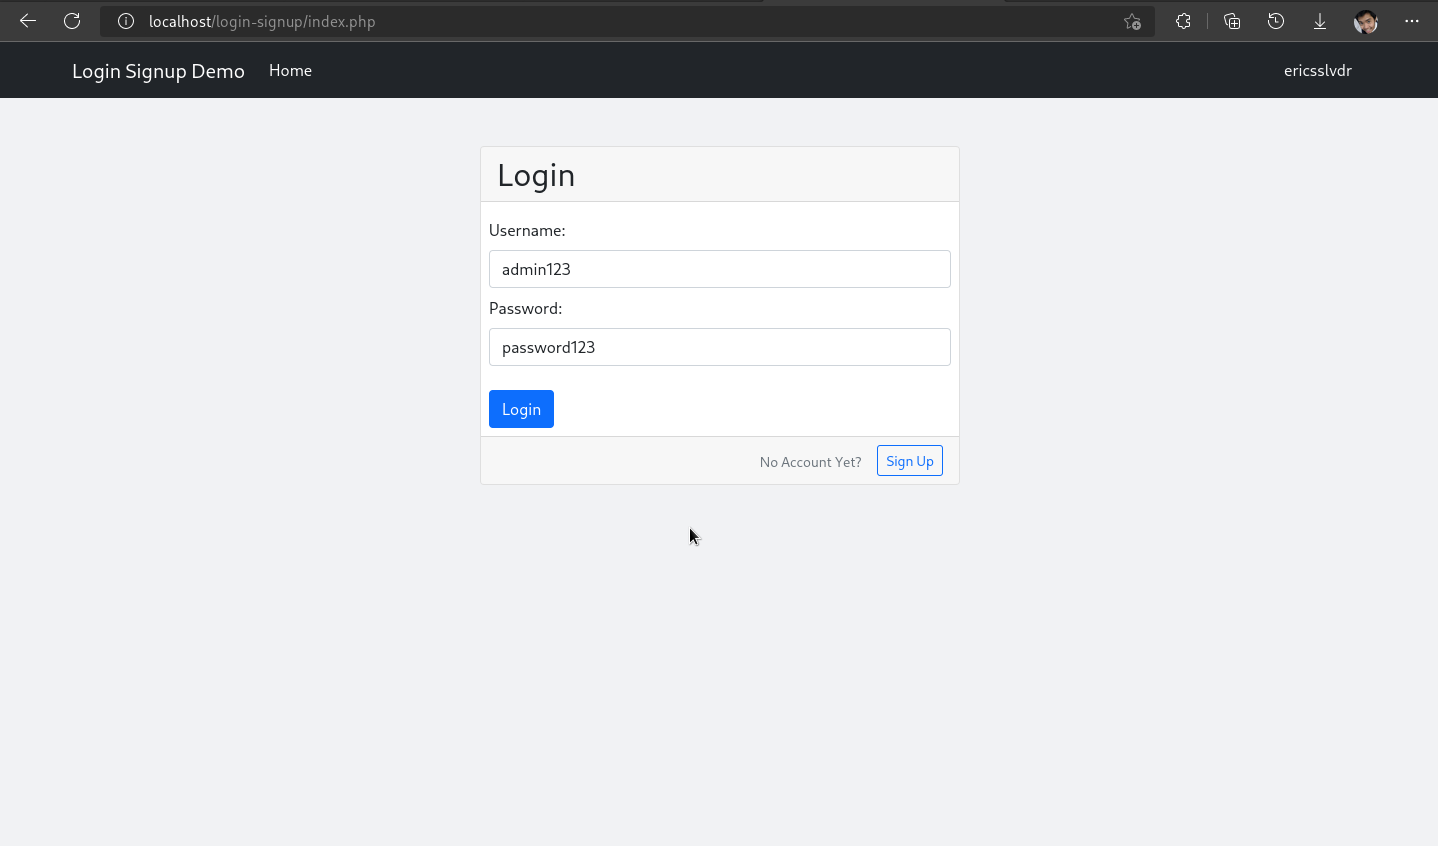
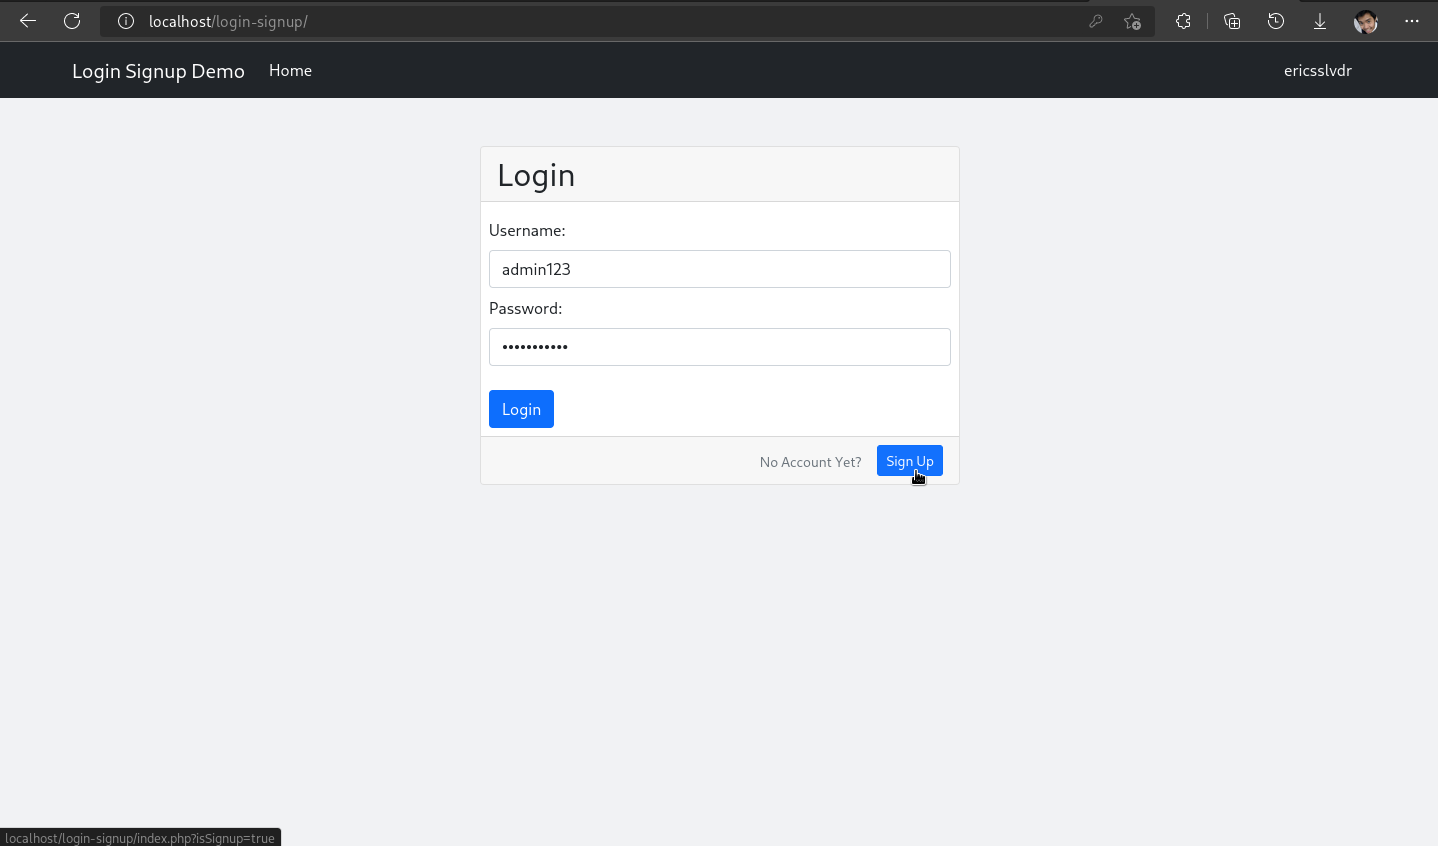
changed input type text to password

diff --git a/sign-up.php b/sign-up.php
@@ -6,15 +6,15 @@
         <div class="card-body p-2">
             <form action="" method="POST">
                 <label class="form-label mt-2">Username:</label>
-                <input type="text" name="username" id="username" class="form-control" placeholder="Enter Username Here" required>
+                <input type="text" name="username" class="form-control" placeholder="Enter Username Here" required>
                 <label class="form-label mt-2">Password:</label>
-                <input type="text" name="password" id="password" class="form-control" placeholder="Enter Password Here" required>
+                <input type="password" name="password" class="form-control" placeholder="Enter Password Here" required>
                 <!-- <label class="form-label mt-2">Repeat Password:</label>
-                <input type="text" name="password" id="password" class="form-control" placeholder="Enter Password Here"> -->
+                <input type="password" name="password" class="form-control" placeholder="Enter Password Here"> -->
                 <label class="form-label mt-2">E-mail:</label>
-                <input type="text" name="email" id="email" class="form-control" placeholder="Enter Email Here" required>
+                <input type="text" name="email" class="form-control" placeholder="Enter Email Here" required>
                 <label class="form-label mt-2">Address:</label>
-                <input type="text" name="address" id="address" class="form-control" placeholder="Enter Address Here" required>
+                <input type="text" name="address" class="form-control" placeholder="Enter Address Here" required>
                 <br>
                 <input type="submit" class="btn btn-primary" name="signup" value="Sign Up">
             </form>

diff --git a/log-in.php b/log-in.php
@@ -6,9 +6,9 @@
         <div class="card-body p-2">
             <form action="" method="POST">
                 <label class="form-label mt-2">Username:</label>
-                <input type="text" name="username" id="username" class="form-control" placeholder="Enter Username Here" required>
+                <input type="text" name="username" class="form-control" placeholder="Enter Username Here" required>
                 <label class="form-label mt-2">Password:</label>
-                <input type="text" name="password" id="password" class="form-control" placeholder="Enter Password Here" required>
+                <input type="password" name="password" class="form-control" placeholder="Enter Password Here" required>
                 <br>
                 <input type="submit" name="login" value="Login" class="btn btn-primary">
             </form>
